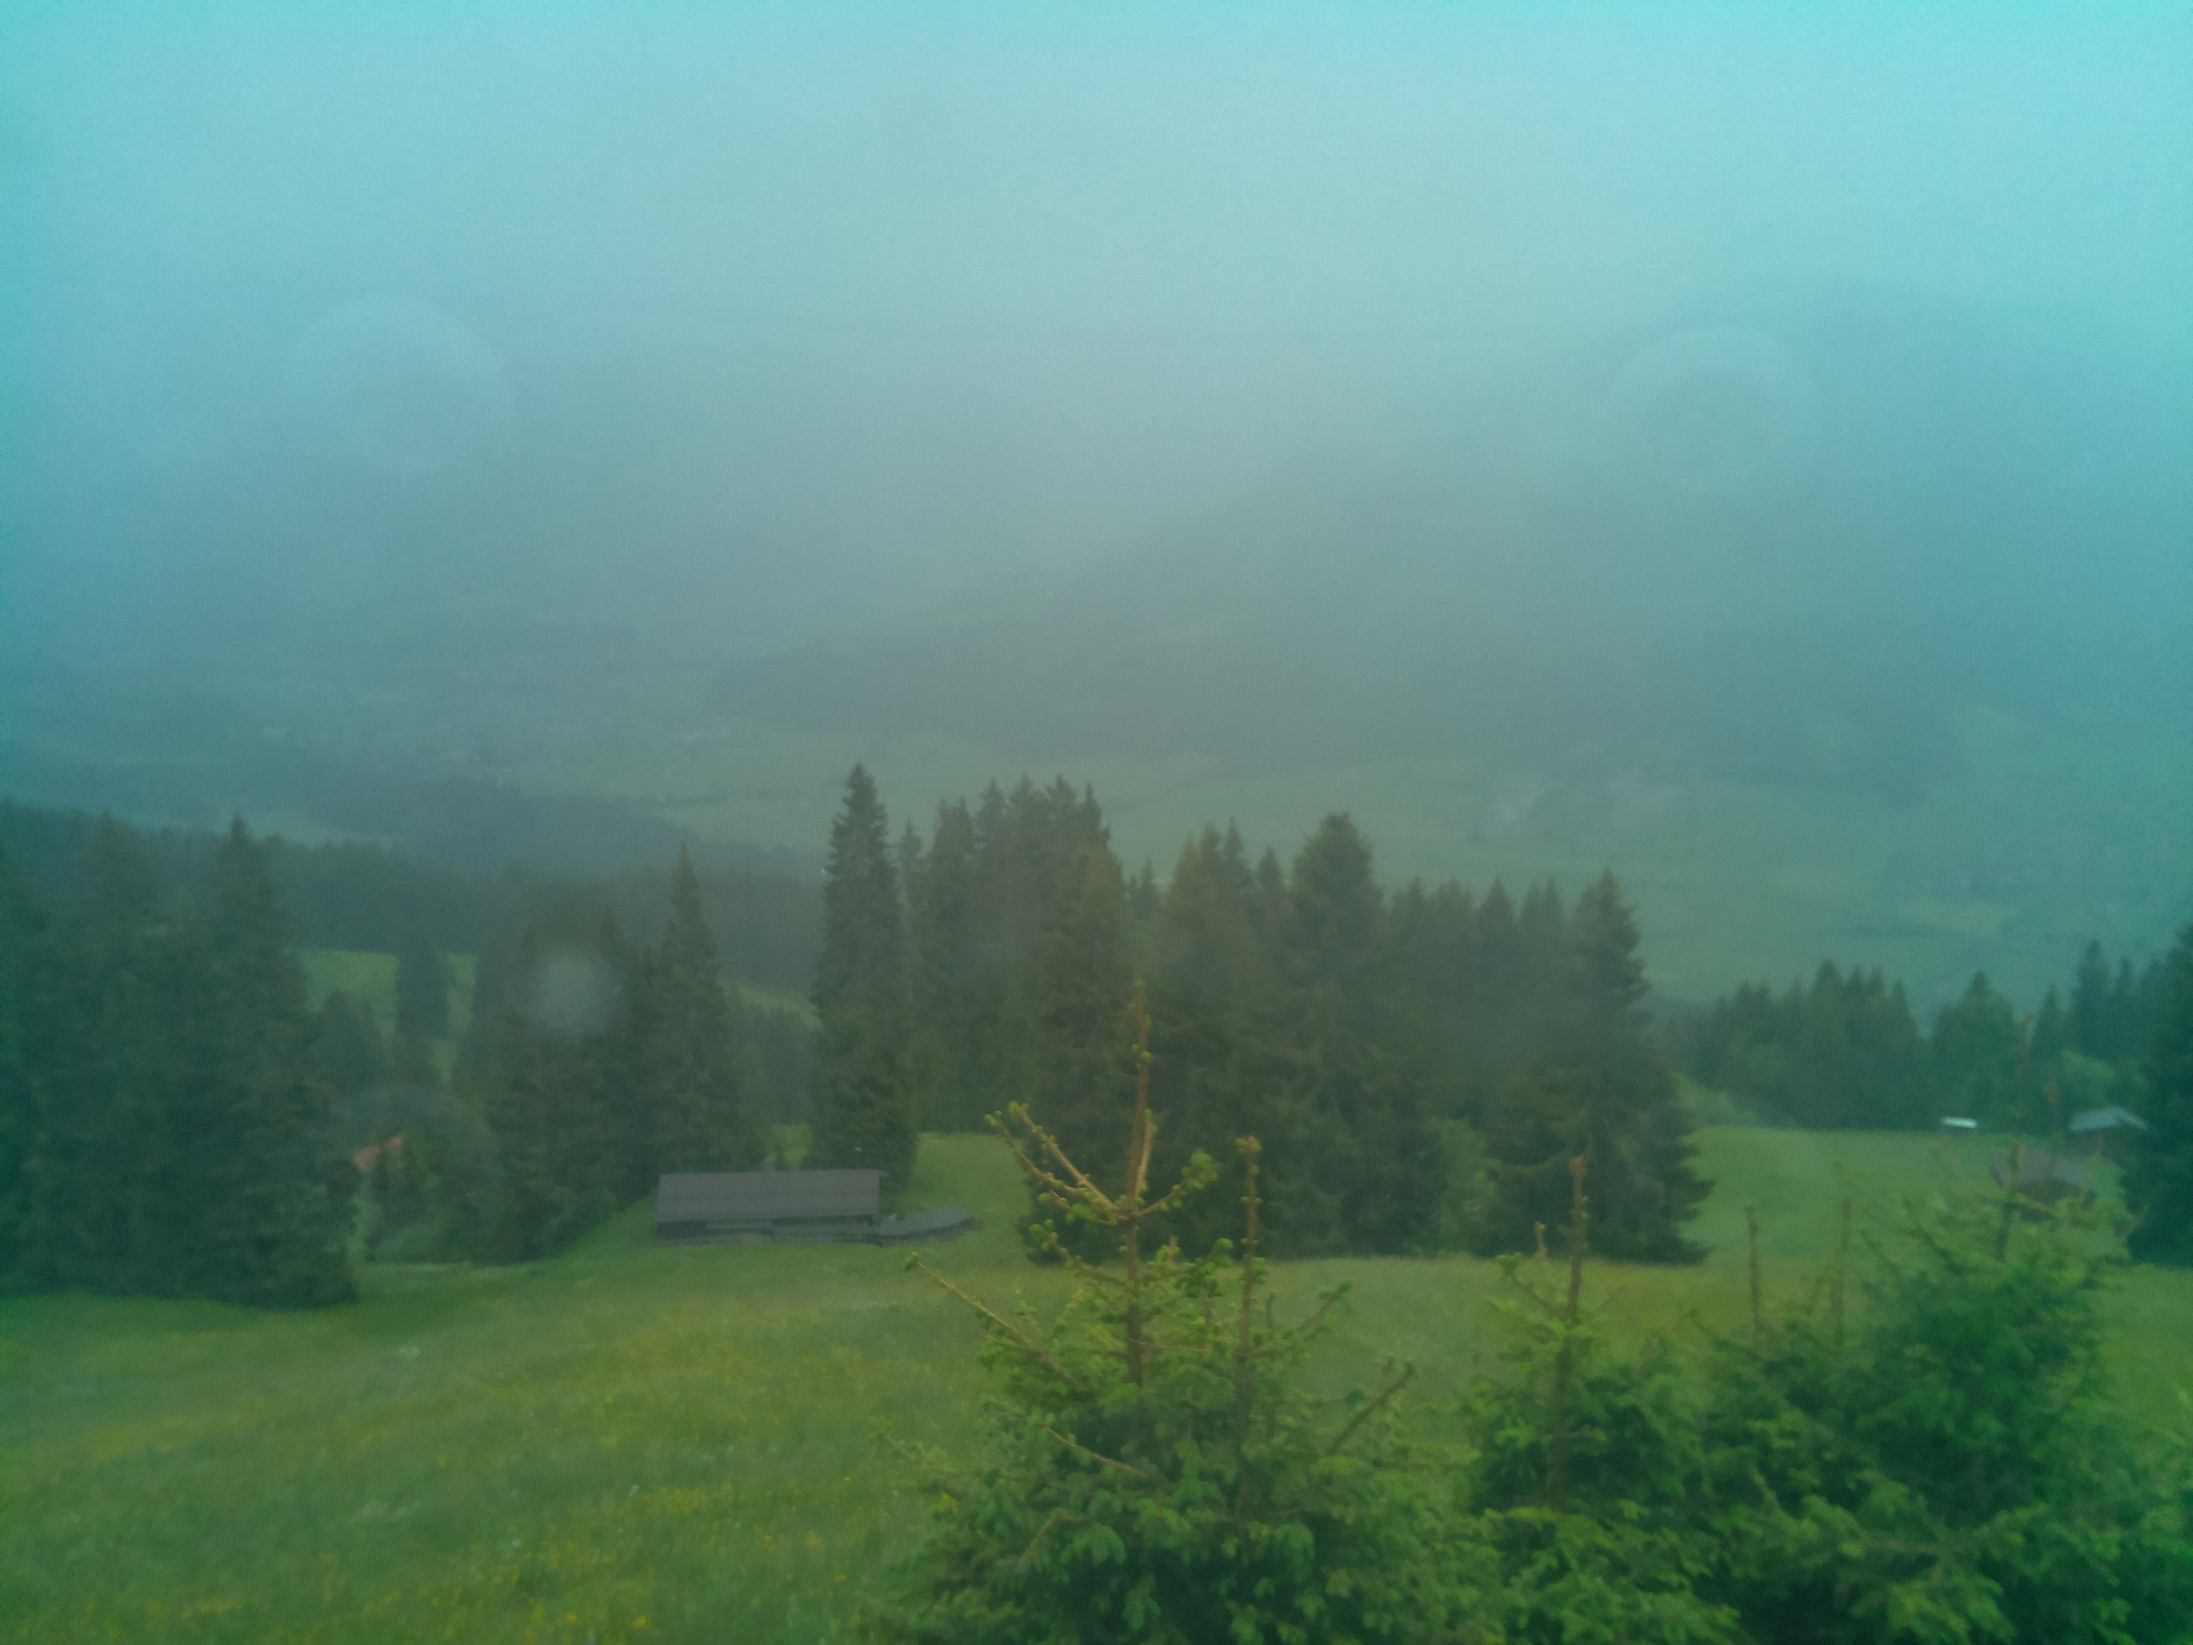
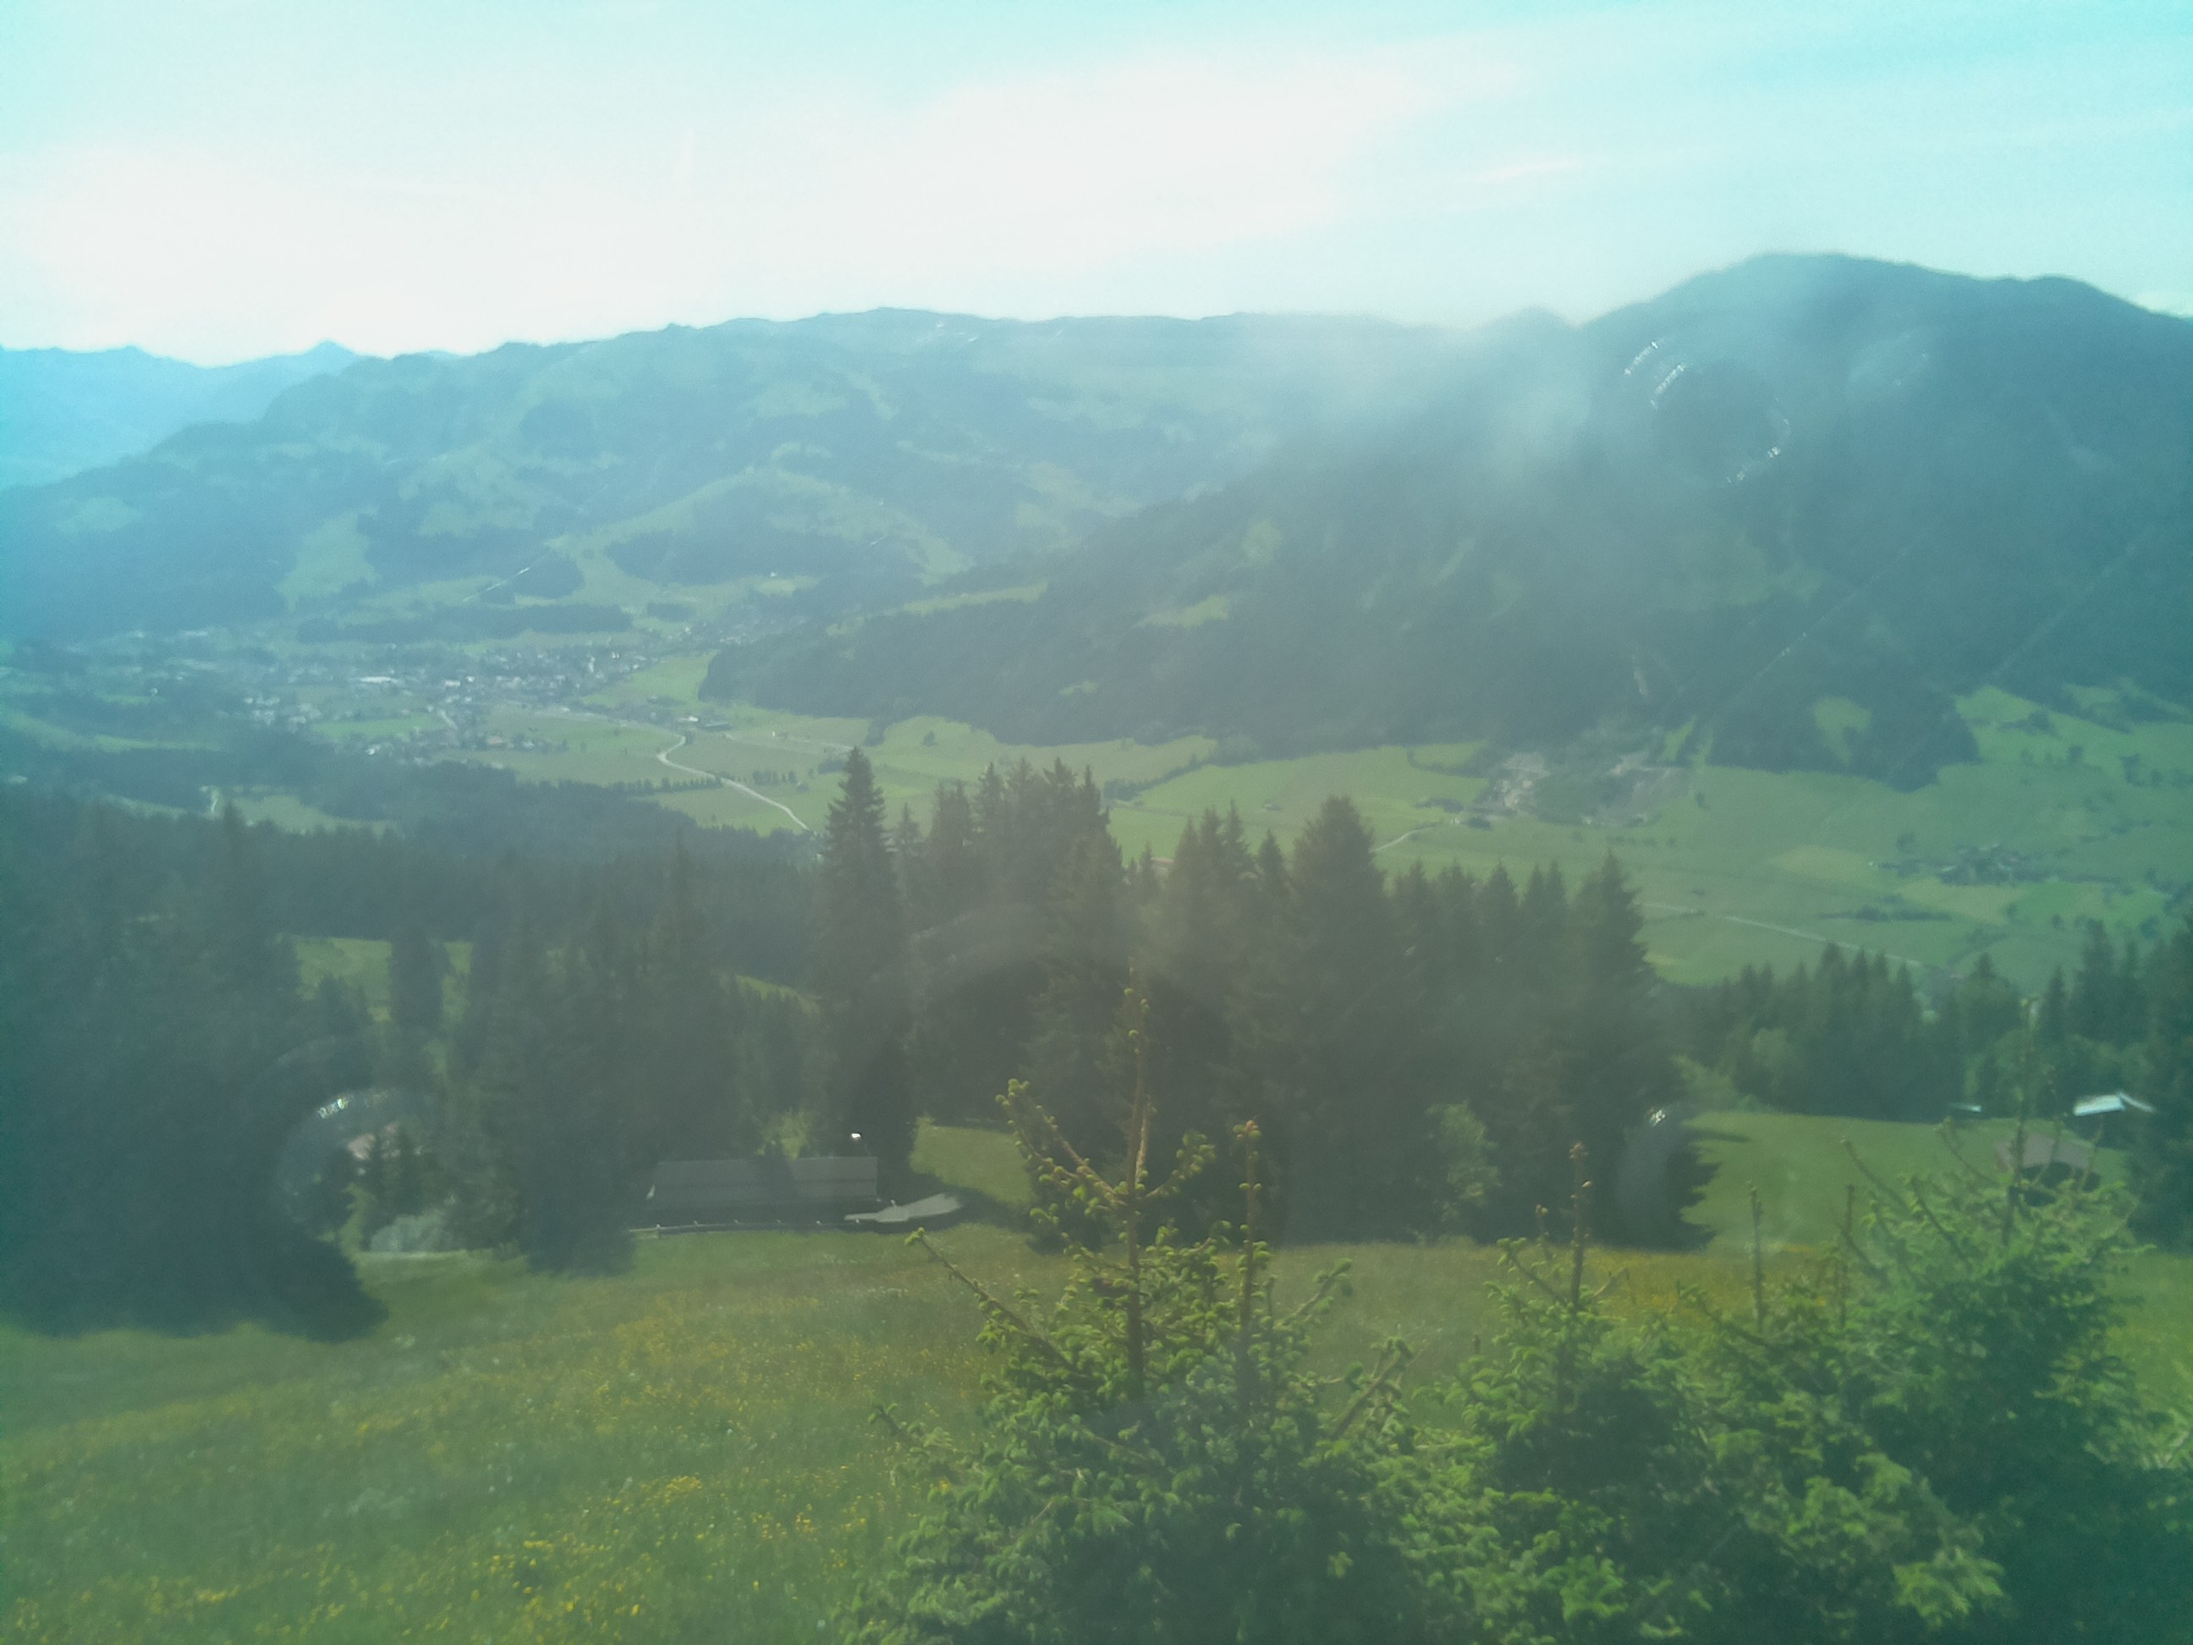
I'm a bot beep boop

diff --git a/resources/huette.md b/resources/huette.md
@@ -6,13 +6,13 @@ image: '/assets/img/'
 description: 'Live image from the Austrian alps'
 twitter_text: ' '
 ---
-## Latest image from 02 June 2022 at 16:10
+## Latest image from 03 June 2022 at 10:10
 <div class="huette">
   <div class="huette-image">
     <img src="{{ "/assets/img/huette.jpg" | prepend: site.baseurl }}">
   </div>
   <div class="huette-text">
-        <h2>Current Temperature: 14.125°C</h2>
+        <h2>Current Temperature: 20.687°C</h2>
         <p>A solar powered raspberry pi left alone in the wild is sending daily images and temperature data to this website. It should give you an impression about the current weather in the "Brixental".</p>
 
   </div>

diff --git a/rpi-script/huette.md b/rpi-script/huette.md
@@ -6,13 +6,13 @@ image: '/assets/img/'
 description: 'Live image from the Austrian alps'
 twitter_text: ' '
 ---
-## Latest image from 02 June 2022 at 16:10
+## Latest image from 03 June 2022 at 10:10
 <div class="huette">
   <div class="huette-image">
     <img src="{{ "/assets/img/huette.jpg" | prepend: site.baseurl }}">
   </div>
   <div class="huette-text">
-        <h2>Current Temperature: 14.125°C</h2>
+        <h2>Current Temperature: 20.687°C</h2>
         <p>A solar powered raspberry pi left alone in the wild is sending daily images and temperature data to this website. It should give you an impression about the current weather in the "Brixental".</p>
 
   </div>
